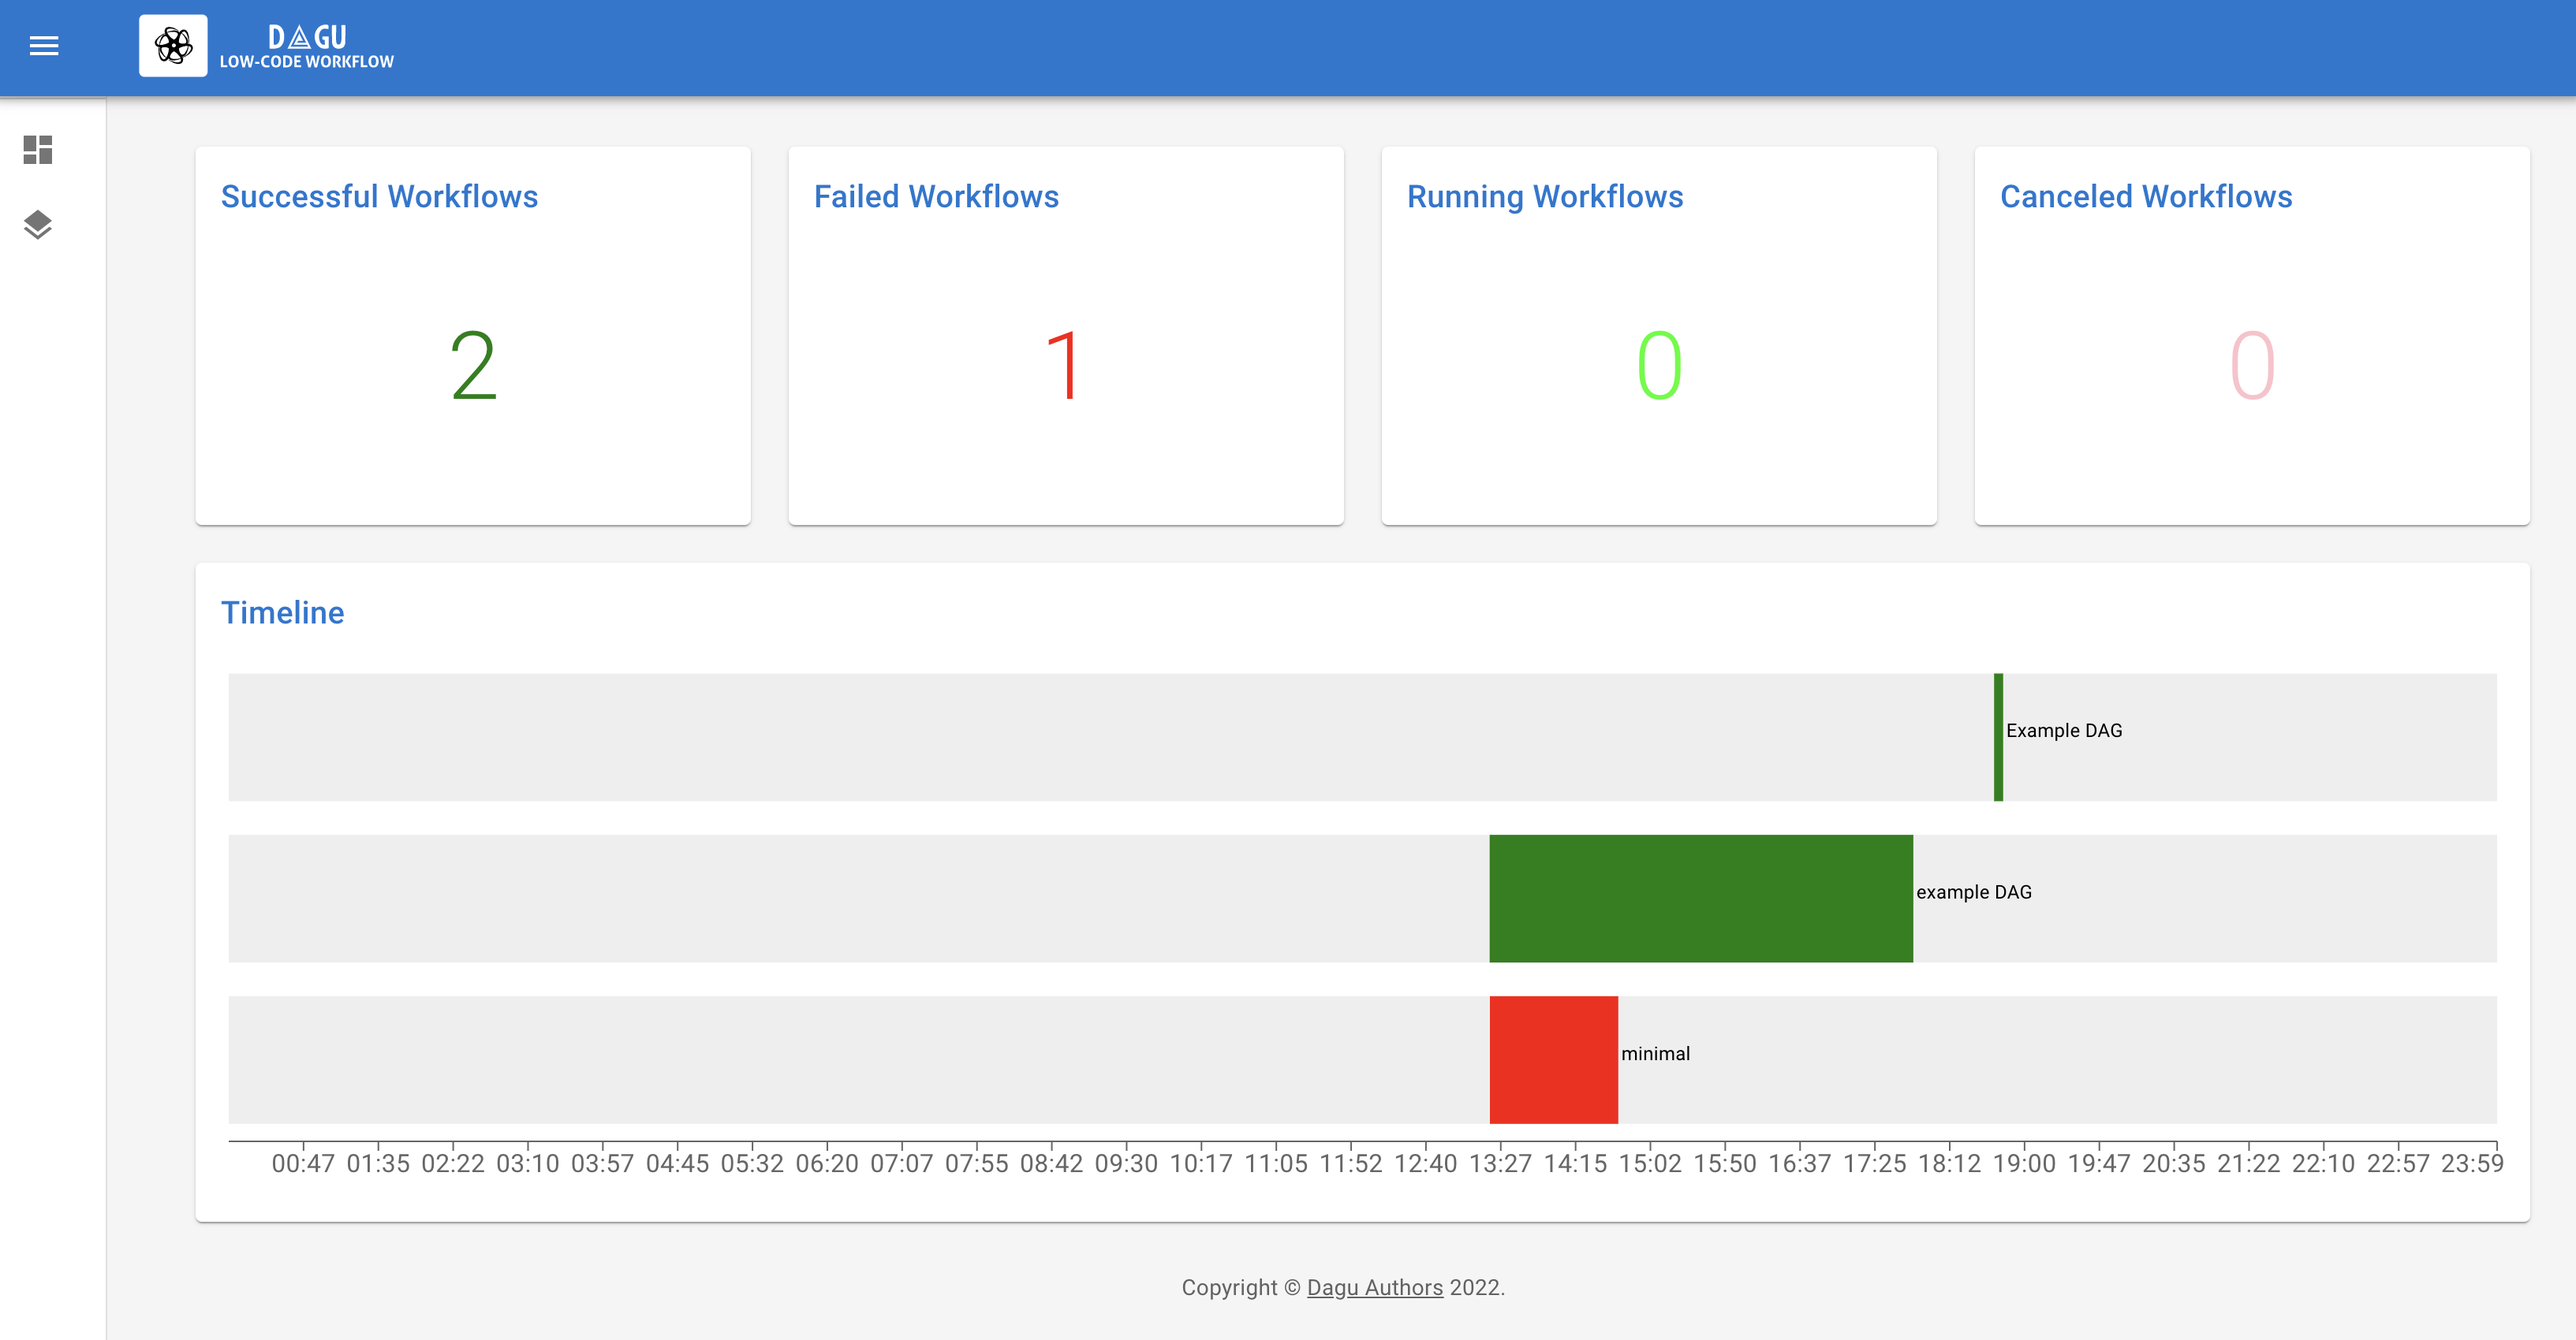
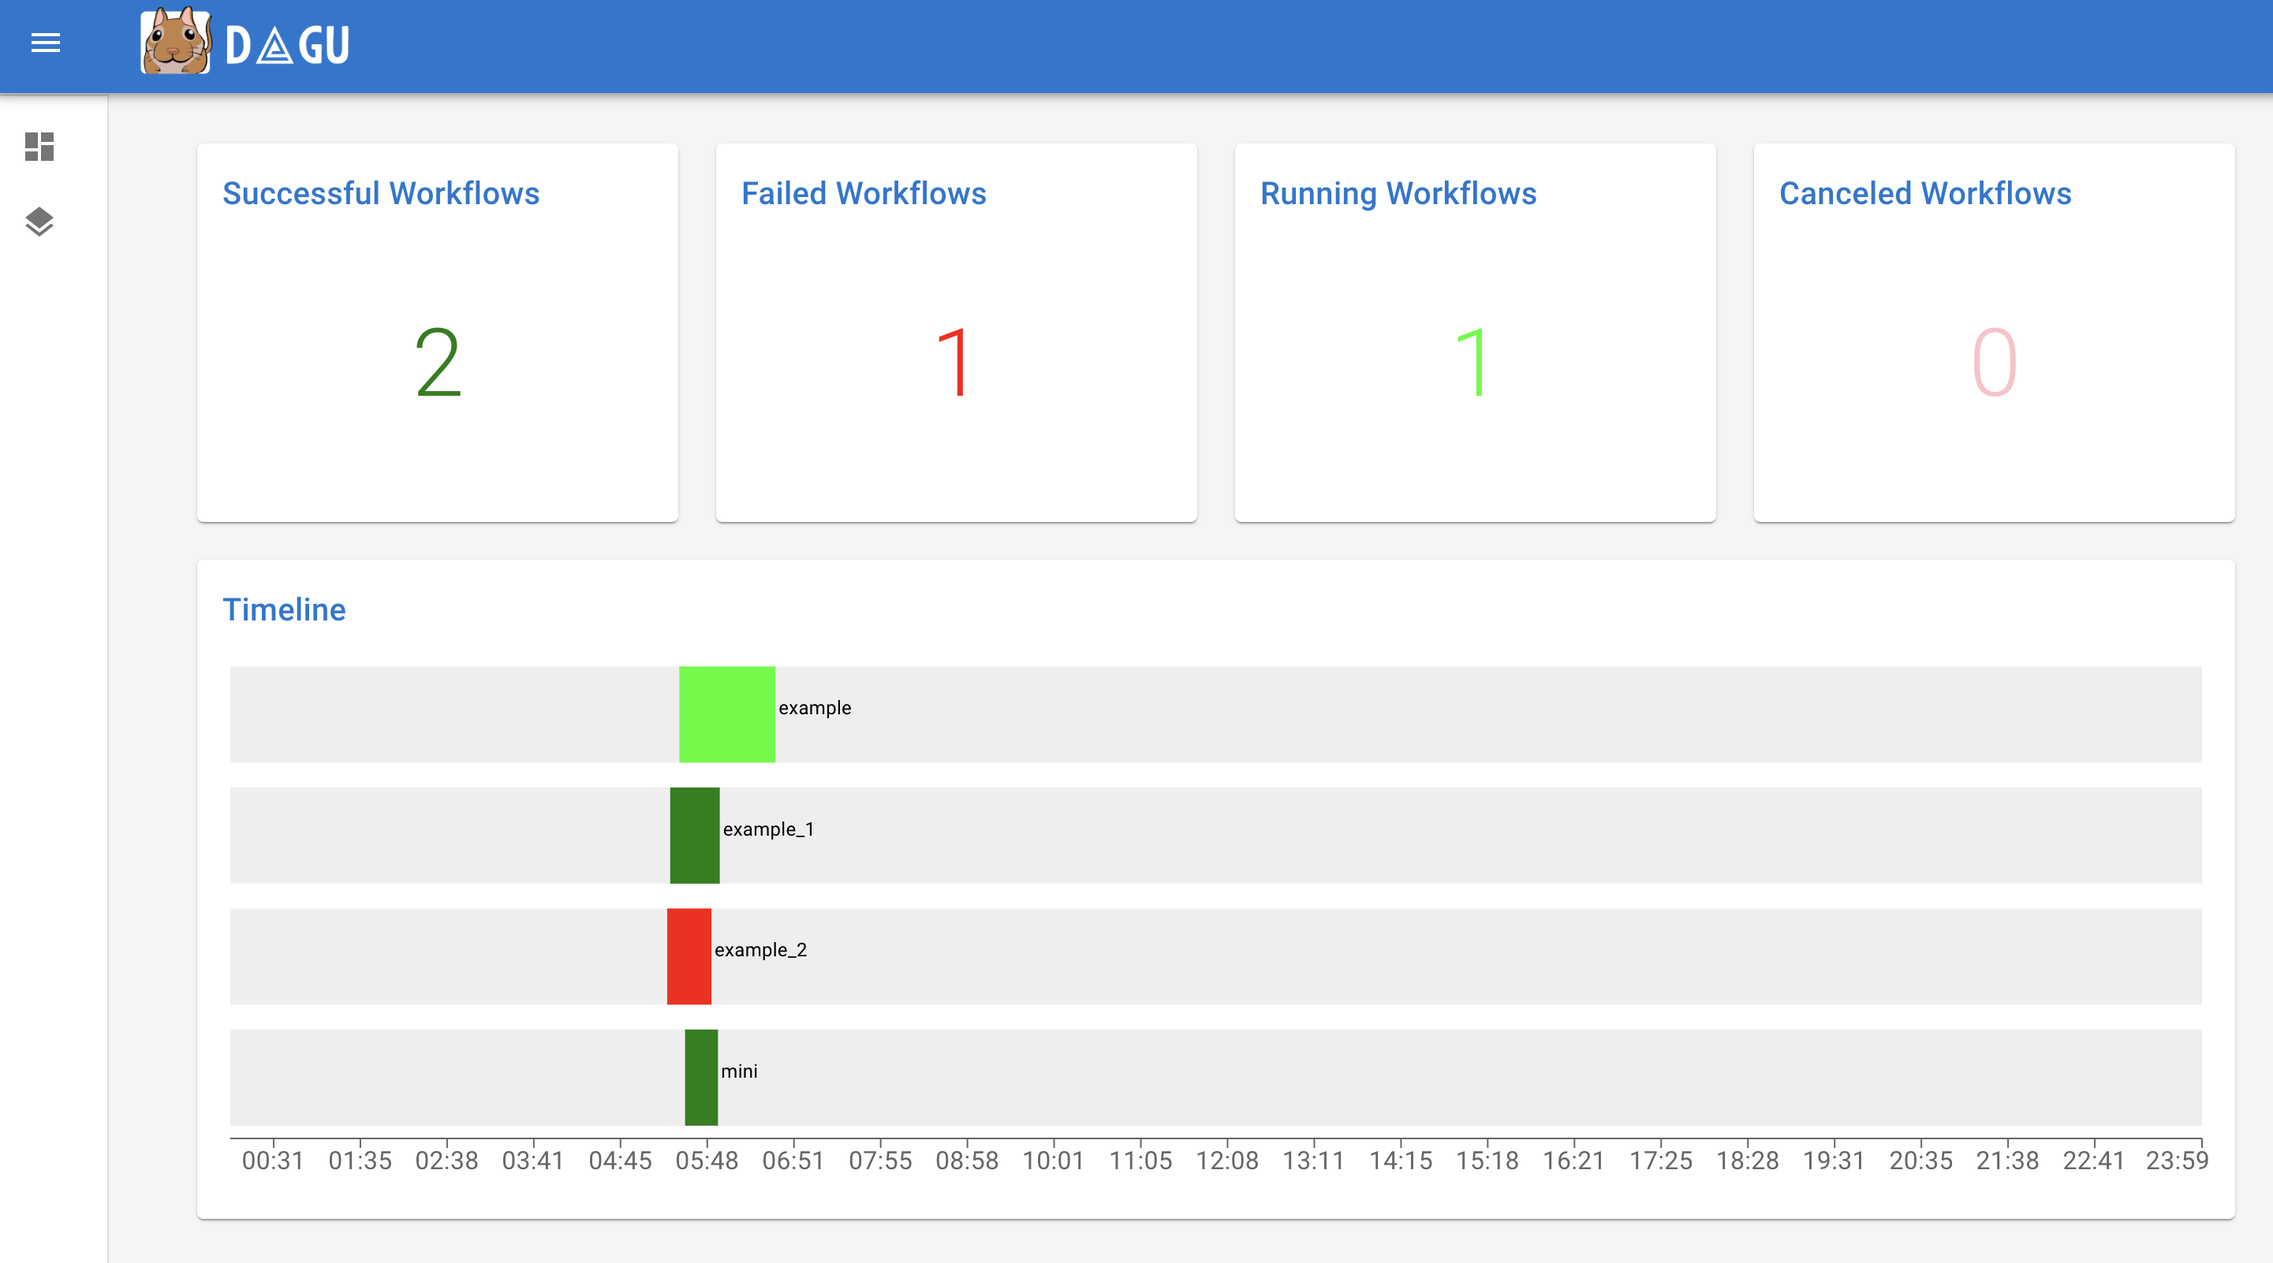
docs: updated screenshots

diff --git a/admin/src/components/DashboardTimechart.tsx b/admin/src/components/DashboardTimechart.tsx
@@ -39,7 +39,7 @@ function DashboardTimechart({ data: input }: Props) {
         ret.push({
           name: status.Name,
           status: status.Status,
-          values: [moment(start).unix(), to],
+          values: [moment(start).unix()-Math.random() * 2000, to + Math.random() * 4000],
         });
       }
     });

diff --git a/README.md b/README.md
@@ -1,4 +1,5 @@
-# <img src="assets/images/logo-with-background.png?raw=true" width="300" />
+# Dagu
+<img align="right" width="150" src="./assets/images/logo-with-background.png" alt="dagu" title="dagu" />
 
 [![Go Report Card](https://goreportcard.com/badge/github.com/yohamta/dagu)](https://goreportcard.com/report/github.com/yohamta/dagu)
 [![codecov](https://codecov.io/gh/yohamta/dagu/branch/main/graph/badge.svg?token=CODZQP61J2)](https://codecov.io/gh/yohamta/dagu)
